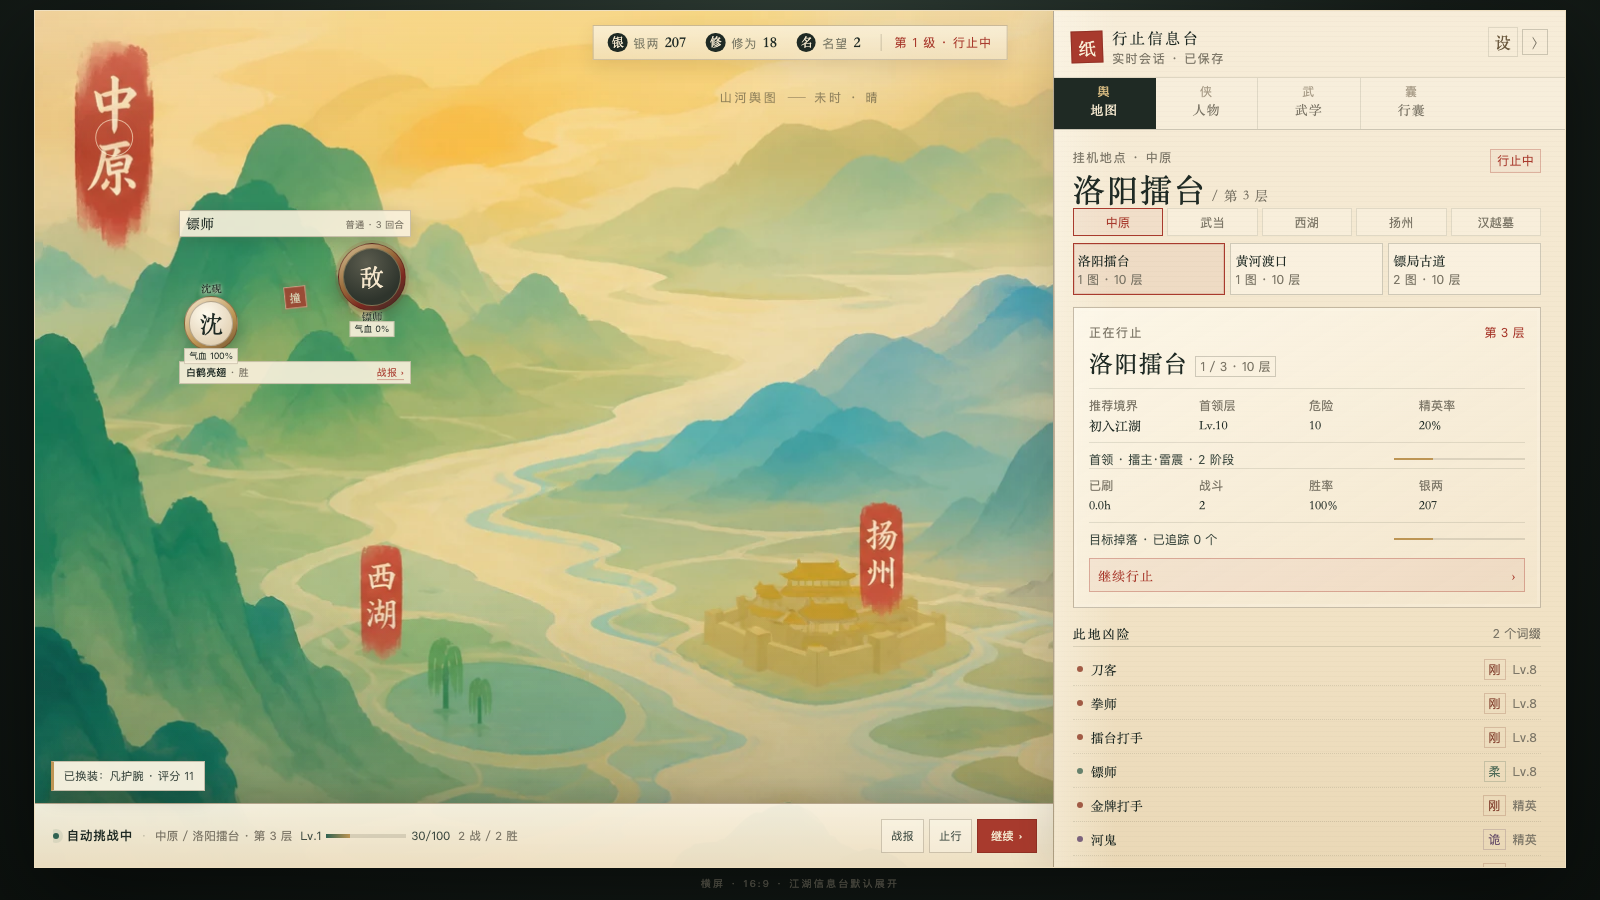
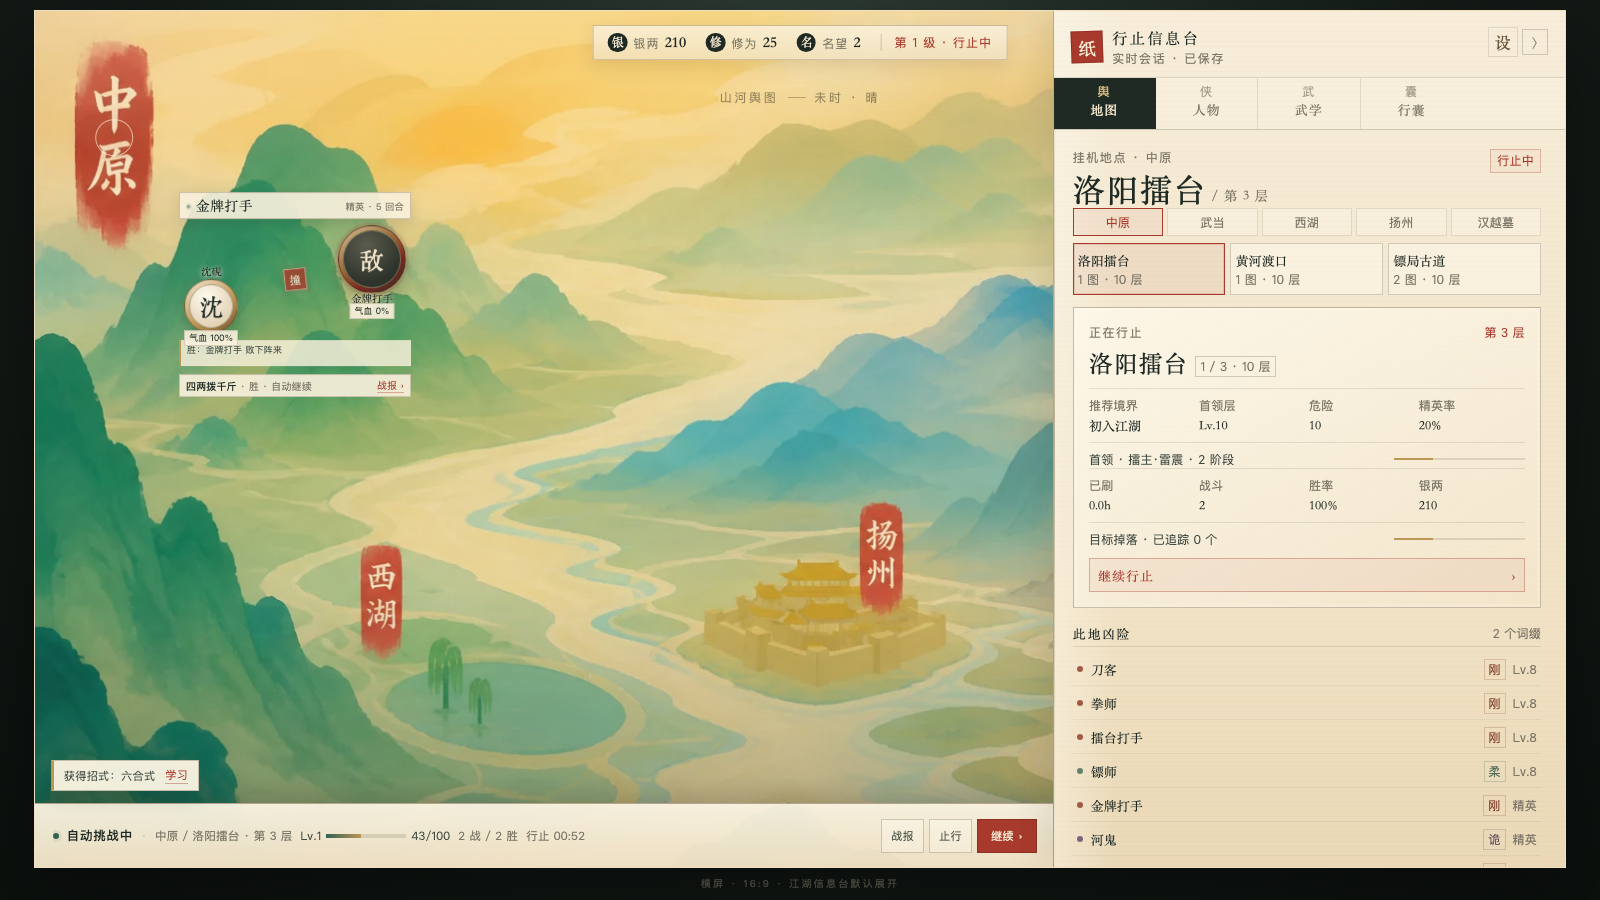
feat(ui): add idle battle replay ticker and live timer

Changed region(s): [[0.0938, 0.1867, 0.2812, 0.4667], [0.0312, 0.84, 0.125, 0.8711]]

diff --git a/src/ui/App.tsx b/src/ui/App.tsx
@@ -48,6 +48,14 @@ function n(value: number): string {
   return new Intl.NumberFormat("zh-CN").format(Math.round(value));
 }
 
+function elapsedLabel(hours: number): string {
+  const total = Math.max(0, Math.floor(hours * 3600));
+  const h = Math.floor(total / 3600);
+  const m = Math.floor((total % 3600) / 60);
+  const s = total % 60;
+  return h > 0 ? `${h}h ${String(m).padStart(2, "0")}m` : `${String(m).padStart(2, "0")}:${String(s).padStart(2, "0")}`;
+}
+
 function pct(value: number): string {
   return `${Math.round(value * 100)}%`;
 }
@@ -189,7 +197,7 @@ function App() {
                 <span className="pin-core" />
                 <span className="pin-label">{snapshot.playerName}</span>
               </div>
-              <BattleCluster snapshot={snapshot} map={currentMap} region={current} onExpand={() => setBattleLogOpen(true)} />
+              <BattleCluster key={snapshot.fights} snapshot={snapshot} map={currentMap} region={current} onExpand={() => setBattleLogOpen(true)} />
             </div>
 
             {notice && <div className="toast">{notice}</div>}
@@ -234,6 +242,7 @@ function App() {
                 <span>{snapshot.xp}/{snapshot.xpToNext}</span>
               </span>
               <span className="status-fights">{snapshot.fights} 战 / {snapshot.wins} 胜</span>
+              <span className="status-time">行止 {elapsedLabel(snapshot.elapsedHours)}</span>
             </div>
             <div className="status-actions">
               <button onClick={() => setBattleLogOpen(true)} disabled={!snapshot.lastBattle}>战报</button>
@@ -376,6 +385,21 @@ function BattleCluster(props: {
 }) {
   const { snapshot, map, region, onExpand } = props;
   const battle = snapshot.lastBattle;
+  const [logLine, setLogLine] = useState(0);
+  useEffect(() => {
+    setLogLine(0);
+    if (!battle || battle.log.length <= 1) return;
+    const timer = window.setInterval(() => {
+      setLogLine((current) => {
+        if (current >= battle.log.length - 1) {
+          window.clearInterval(timer);
+          return current;
+        }
+        return current + 1;
+      });
+    }, 520);
+    return () => window.clearInterval(timer);
+  }, [battle?.log.length, snapshot.fights]);
   if (!snapshot.active || !battle) return null;
   const elite = enemiesForMap(map).find((enemy) => enemy.kind === "elite");
   const kind = snapshot.mapLayer >= 10 ? "boss" : battle.enemyName === elite?.name ? "elite" : "normal";
@@ -383,6 +407,8 @@ function BattleCluster(props: {
   const enemyHp = Math.max(0, Math.min(100, Math.round((battle.enemyHpPct ?? (battle.outcome === "win" ? 0 : 100)) * 100)));
   const skill = battle.log.join("\n").match(/你以「(.+?)」/)?.[1] ?? "交手";
   const outcome = battle.outcome === "win" ? "胜" : battle.outcome === "timeout" ? "限" : "负";
+  const replaying = logLine < battle.log.length - 1;
+  const replayLine = battle.log[logLine] ?? battle.log[battle.log.length - 1] ?? "交手";
   return (
     <div
       className={`battle-cluster kind-${kind}`}
@@ -400,6 +426,7 @@ function BattleCluster(props: {
           <span className="orb-name">沈砚</span>
           <span className="orb-hp">气血 {playerHp}%</span>
         </div>
+        <span className="cluster-damage">-{n(battle.damageDealt)}</span>
         <span className="cluster-clash">撞</span>
         <div className="combat-orb enemy" style={{ "--hp": `${enemyHp}%` } as CSSProperties}>
           <span className="orb-frame"><span className="orb-figure">敌</span></span>
@@ -407,8 +434,9 @@ function BattleCluster(props: {
           <span className="orb-hp">气血 {enemyHp}%</span>
         </div>
       </div>
+      <div className="cluster-replay" aria-live="polite">{replayLine}</div>
       <div className="cluster-bottom">
-        <span><b>{skill}</b> · {outcome}</span>
+        <span><b>{skill}</b> · {replaying ? "交战中" : `${outcome} · 自动继续`}</span>
         <button onClick={onExpand}>战报 ›</button>
       </div>
     </div>

diff --git a/src/ui/styles.css b/src/ui/styles.css
@@ -1218,3 +1218,84 @@ html[data-reduced-motion="true"] *, html[data-reduced-motion="true"] *::before, 
   .status-toast { left: 8px; bottom: 68px; max-width: 55%; font-size: 9px; }
   .status-toast span { white-space: normal; }
 }
+
+/* battle motion: the idle page must visibly breathe between fights */
+.battle-cluster { animation: cluster-arrive .38s ease both; }
+.cluster-title span::before {
+  content: "";
+  display: inline-block;
+  width: 5px;
+  height: 5px;
+  margin-right: 5px;
+  border-radius: 50%;
+  background: var(--jade);
+  box-shadow: 0 0 0 3px rgba(47, 98, 82, .1);
+  animation: cluster-live 1.5s ease-in-out infinite;
+  vertical-align: 1px;
+}
+.combat-orb.player .orb-frame { animation: cluster-lunge 2.4s ease-in-out infinite; }
+.combat-orb.enemy .orb-frame { animation: cluster-lunge-reverse 2.4s ease-in-out infinite; }
+.cluster-damage {
+  position: absolute;
+  left: 52%;
+  top: 34%;
+  z-index: 4;
+  transform: translate(-50%, -50%) rotate(-5deg);
+  color: var(--vermilion);
+  font-family: var(--sans);
+  font-size: clamp(11px, .9vw, 15px);
+  font-weight: 700;
+  font-variant-numeric: tabular-nums;
+  text-shadow: 0 1px 0 rgba(251, 242, 222, .9), 0 4px 12px rgba(168, 58, 45, .2);
+  pointer-events: none;
+  animation: cluster-damage 2.4s ease-in-out infinite;
+}
+.status-dot.on { animation: status-breathe 2s ease-in-out infinite; }
+@keyframes cluster-arrive {
+  from { opacity: 0; transform: translate(-50%, -54%) scale(.94); }
+  to { opacity: 1; transform: translate(-50%, -58%) scale(1); }
+}
+@keyframes cluster-live {
+  0%, 100% { opacity: .45; transform: scale(.8); }
+  50% { opacity: 1; transform: scale(1.15); }
+}
+@keyframes cluster-lunge {
+  0%, 100% { transform: translate(0, 0) rotate(0); }
+  44% { transform: translate(11px, -4px) rotate(1deg); }
+  52% { transform: translate(8px, -2px) rotate(.5deg); }
+}
+@keyframes cluster-lunge-reverse {
+  0%, 100% { transform: translate(0, 0) rotate(0); }
+  44% { transform: translate(-11px, 4px) rotate(-1deg); }
+  52% { transform: translate(-8px, 2px) rotate(-.5deg); }
+}
+@keyframes cluster-damage {
+  0%, 38% { opacity: 0; transform: translate(-50%, -42%) scale(.8) rotate(-5deg); }
+  48% { opacity: 1; transform: translate(-50%, -50%) scale(1) rotate(-5deg); }
+  80% { opacity: .9; transform: translate(-50%, -62%) scale(1) rotate(-5deg); }
+  100% { opacity: 0; transform: translate(-50%, -68%) scale(1) rotate(-5deg); }
+}
+@keyframes status-breathe {
+  0%, 100% { box-shadow: 0 0 0 3px rgba(47, 98, 82, .08); }
+  50% { box-shadow: 0 0 0 6px rgba(47, 98, 82, .02); }
+}
+@media (prefers-reduced-motion: reduce) {
+  .battle-cluster, .cluster-title span::before, .combat-orb .orb-frame, .cluster-damage, .status-dot.on { animation: none !important; }
+}
+.status-time { color: var(--muted); font-variant-numeric: tabular-nums; }
+.cluster-replay {
+  margin-top: 5px;
+  min-height: 26px;
+  max-height: 30px;
+  overflow: hidden;
+  padding: 3px 6px;
+  color: var(--ink-soft);
+  background: rgba(250, 241, 221, .82);
+  border-left: 2px solid var(--gold);
+  font-family: var(--sans);
+  font-size: clamp(8px, .58vw, 9px);
+  line-height: 1.45;
+  display: -webkit-box;
+  -webkit-line-clamp: 2;
+  -webkit-box-orient: vertical;
+}
